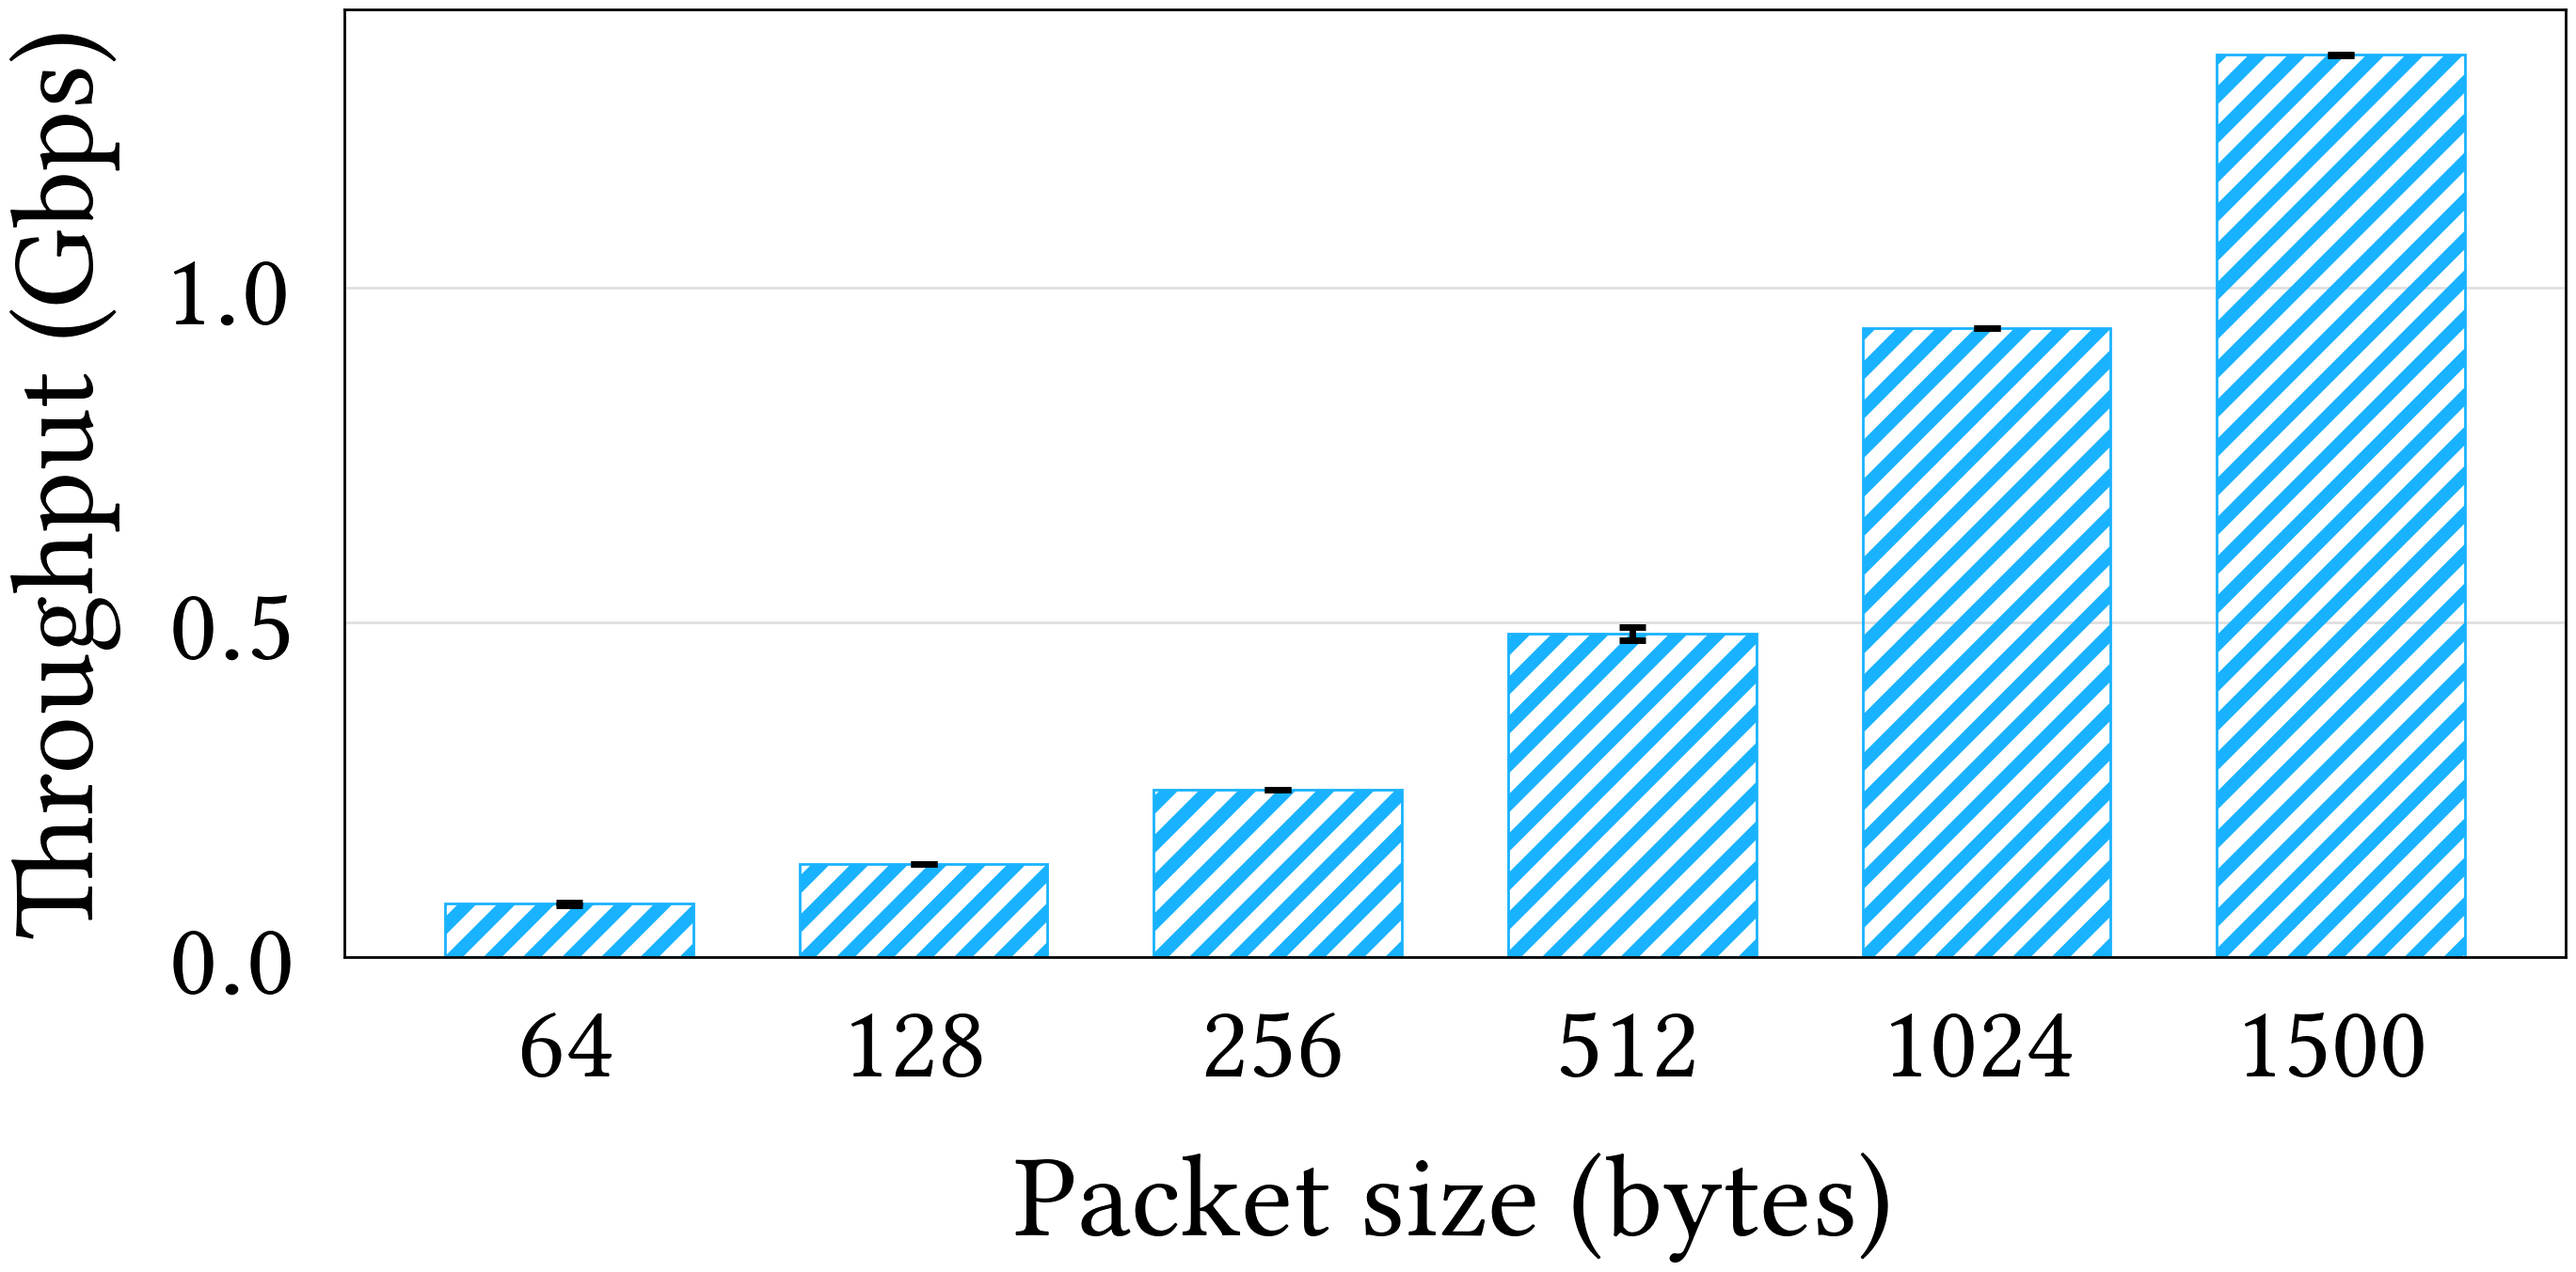
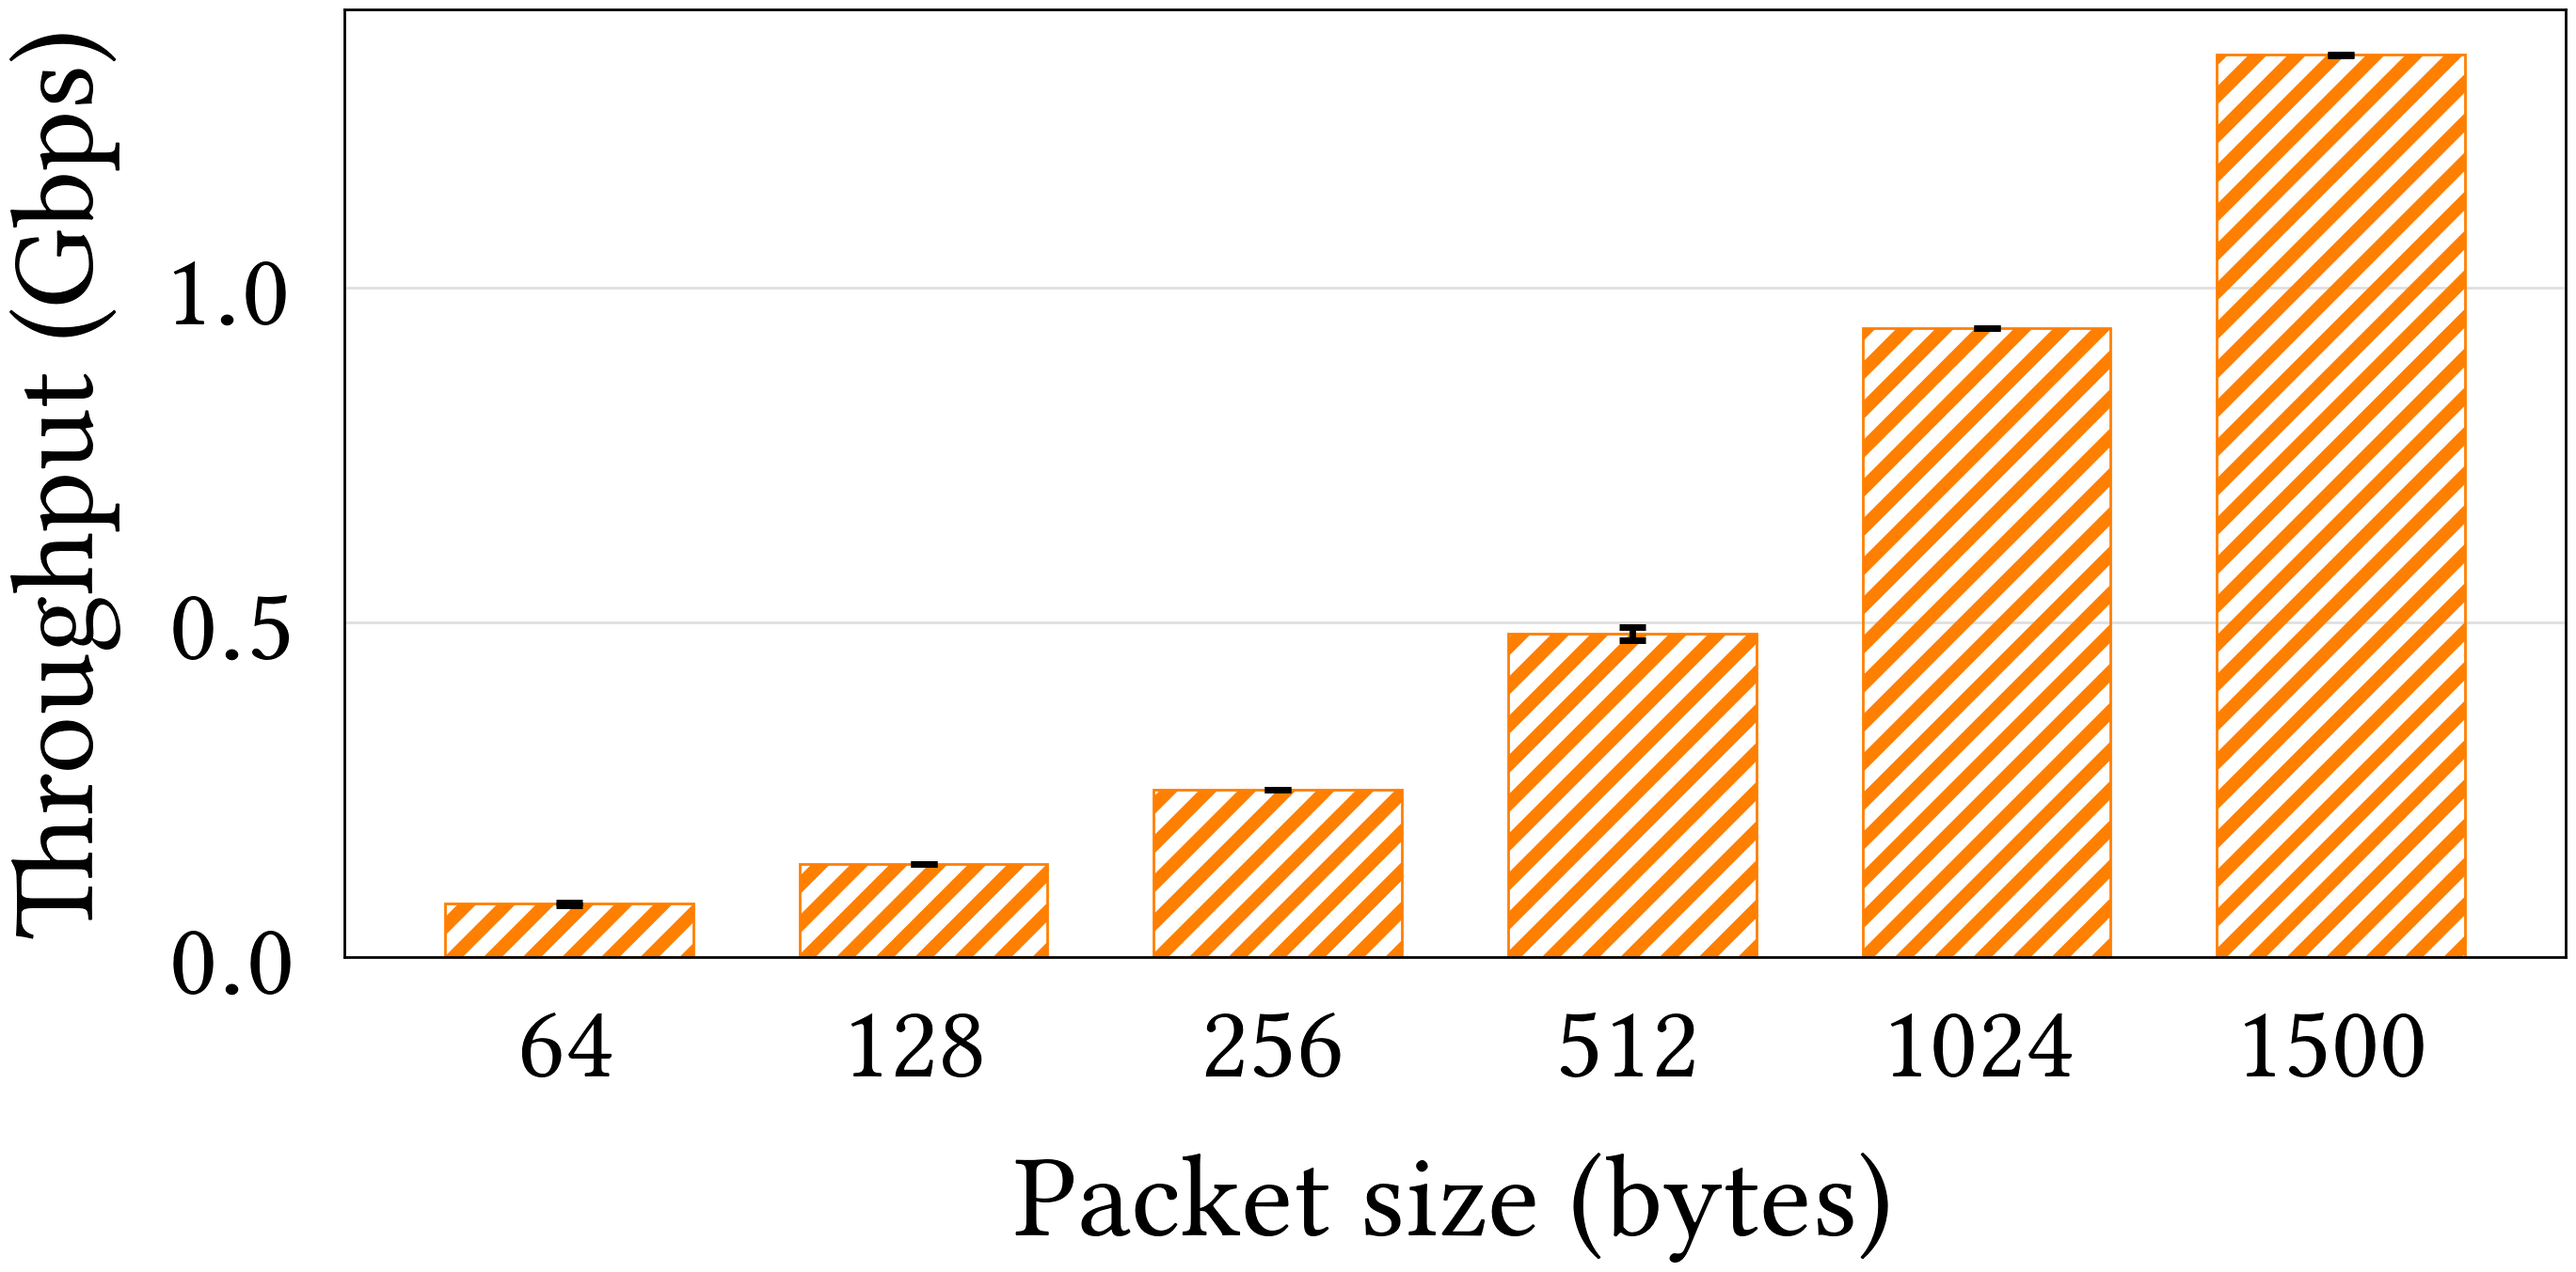
Color change on plots

diff --git a/eval/plots.py b/eval/plots.py
@@ -45,6 +45,10 @@ HEURISTICS = {
     "min_cpu": "Min. CPU",
 }
 
+COLOR_GROUP_SWITCH_ASIC = 0
+COLOR_GROUP_SWITCH_CPU = 1
+COLOR_GROUP_CPU = 2
+
 acm_acmsmall = {
     'documentclass': 'acmart',
     'document_options': 'acmsmall'
@@ -77,9 +81,6 @@ capthick = 0.5
 # Check others here: https://r-charts.com/color-palettes/#discrete
 palette = [
     '#19B2FF',
-    '#2ca02c',  # "#32FF00",  # I hate this green, so I changed it... It may
-                # not be as color-blind friendly as it was originally but since
-                # we also use patterns, it should be fine.
     '#FF7F00',
     '#654CFF',
     '#E51932',
@@ -87,7 +88,10 @@ palette = [
     '#FFFF99',
     '#B2FF8C',
     '#A5EDFF',
-    '#CCBFFF'
+    '#CCBFFF',
+    '#2ca02c',  # "#32FF00",  # I hate this green, so I changed it... It may
+                # not be as color-blind friendly as it was originally but since
+                # we also use patterns, it should be fine.
 ]
 
 hatch_list = ['////////', '-----', '+++++++', '|||||||']
@@ -338,6 +342,7 @@ def plot_throughput_under_churn_pps(
     data: list[list[Union[int, float]]],
     out_name: str,
     generate_png: bool,
+    color_group: int,
 ):
     x_elem = 1 # churn column
     x_label = "Churn (fpm)"
@@ -368,7 +373,14 @@ def plot_throughput_under_churn_pps(
     set_figsize = (width / 2, height / 2)
     fig, ax = plt.subplots()
 
-    plot_subplot(ax, x_label, y_label, d, lines_only=False)
+    plot_subplot(
+        ax,
+        x_label,
+        y_label,
+        d,
+        lines_only=False,
+        set_palette=[palette[color_group]],
+    )
 
     ax.set_xscale("symlog")
 
@@ -384,6 +396,7 @@ def plot_throughput_under_churn_bps(
     data: list[list[Union[int, float]]],
     out_name: str,
     generate_png: bool,
+    color_group: int,
 ):
     x_elem = 1 # churn column
     x_label = "Churn (fpm)"
@@ -414,7 +427,14 @@ def plot_throughput_under_churn_bps(
     set_figsize = (width / 2, height / 2)
     fig, ax = plt.subplots()
 
-    plot_subplot(ax, x_label, y_label, d, lines_only=False)
+    plot_subplot(
+        ax,
+        x_label,
+        y_label,
+        d,
+        lines_only=False,
+        set_palette=[palette[color_group]],
+    )
 
     ax.set_xscale("symlog")
 
@@ -430,6 +450,7 @@ def plot_thpt_per_pkt_sz_bps(
     data: list[list[Union[int, float]]],
     out_name: str,
     generate_png: bool,
+    color_group: int,
 ):
     x_elem = 1 # packet size column
     x_label = "Packet size (bytes)"
@@ -460,7 +481,15 @@ def plot_thpt_per_pkt_sz_bps(
 
     set_figsize = (width / 2, height / 2)
     fig, ax = plt.subplots()
-    bar_subplot(ax, x_label, y_label, d, xtick_labels=xtick_labels)
+
+    bar_subplot(
+        ax,
+        x_label,
+        y_label,
+        d,
+        xtick_labels=xtick_labels,
+        set_palette=[palette[color_group]],
+    )
 
     fig.set_size_inches(*set_figsize)
     fig.tight_layout(pad=0.1)
@@ -474,6 +503,7 @@ def plot_thpt_per_pkt_sz_pps(
     data: list[list[Union[int, float]]],
     out_name: str,
     generate_png: bool,
+    color_group: int,
 ):
     x_elem = 1 # packet size column
     x_label = "Packet size (bytes)"
@@ -504,7 +534,15 @@ def plot_thpt_per_pkt_sz_pps(
 
     set_figsize = (width / 2, height / 2)
     fig, ax = plt.subplots()
-    bar_subplot(ax, x_label, y_label, d, xtick_labels=xtick_labels)
+    
+    bar_subplot(
+        ax,
+        x_label,
+        y_label,
+        d,
+        xtick_labels=xtick_labels,
+        set_palette=[palette[color_group]],
+    )
 
     fig.set_size_inches(*set_figsize)
     fig.tight_layout(pad=0.1)
@@ -516,16 +554,16 @@ def plot_thpt_per_pkt_sz_pps(
 
 csv_to_plotter = {
     "thpt_per_pkt_sz_forwarder": [
-        ("switch_perf_bps", plot_thpt_per_pkt_sz_bps),
-        ("switch_perf_pps", plot_thpt_per_pkt_sz_pps),
+        (plot_thpt_per_pkt_sz_bps, "switch_perf_bps", COLOR_GROUP_SWITCH_ASIC),
+        (plot_thpt_per_pkt_sz_pps, "switch_perf_pps", COLOR_GROUP_SWITCH_ASIC),
     ],
     "thpt_per_pkt_sz_send_to_controller": [
-        ("switch_cpu_perf_bps", plot_thpt_per_pkt_sz_bps),
-        ("switch_cpu_perf_pps", plot_thpt_per_pkt_sz_pps),
+        (plot_thpt_per_pkt_sz_bps, "switch_cpu_perf_bps", COLOR_GROUP_SWITCH_CPU),
+        (plot_thpt_per_pkt_sz_pps, "switch_cpu_perf_pps", COLOR_GROUP_SWITCH_CPU),
     ],
     "churn_table_map": [
-        ("churn_table_map_bps", plot_throughput_under_churn_bps),
-        ("churn_table_map_pps", plot_throughput_under_churn_pps),
+        (plot_throughput_under_churn_bps, "churn_table_map_bps", COLOR_GROUP_SWITCH_ASIC),
+        (plot_throughput_under_churn_pps, "churn_table_map_pps", COLOR_GROUP_SWITCH_ASIC),
     ],
 }
 
@@ -558,14 +596,14 @@ def main():
             print(f"WARNING: {csv_name} has no plotter assigned. Skipping.")
             continue
         
-        for out_name, plotter in csv_to_plotter[csv_name]:
+        for plotter, out_name, color_group in csv_to_plotter[csv_name]:
             if not args.force and should_skip(out_name, args.png):
                 print(f"{csv_name} -> {out_name} (skipped)")
                 continue
 
             print(f"{csv_name} -> {out_name}")
             _, data = csv_parser(csv_file)
-            plotter(data, out_name, args.png)
+            plotter(data, out_name, args.png, color_group)
 
 if __name__ == "__main__":
     main()
